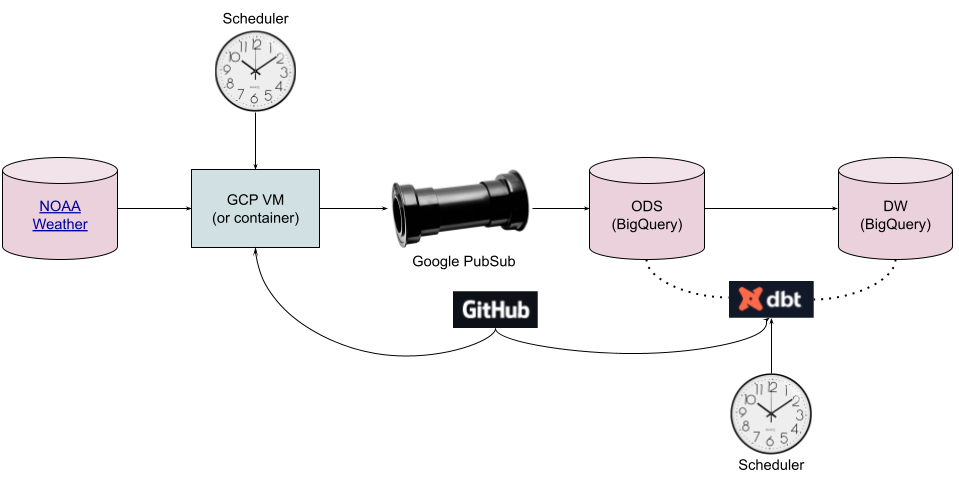
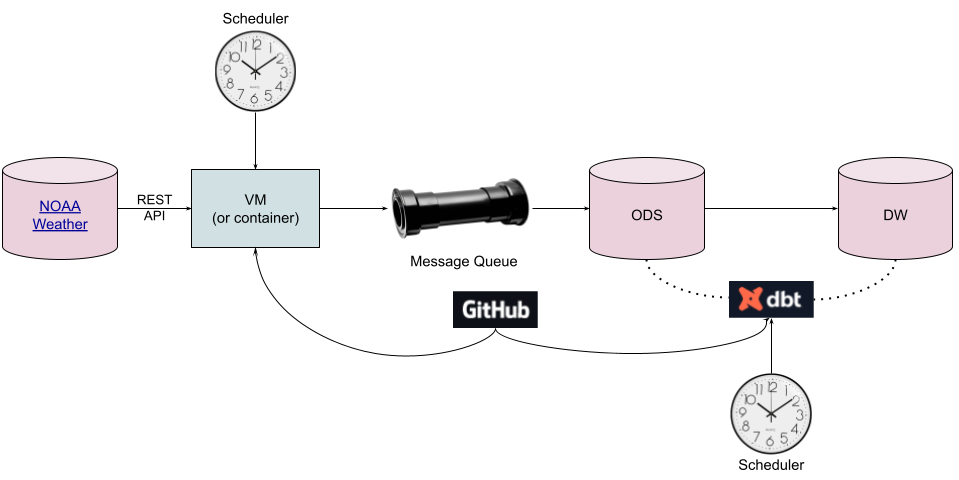
Better documentation.

diff --git a/README.md b/README.md
@@ -8,9 +8,9 @@ This code uses the following technologies:
 # Data Flow
 - I fetch a) weather station, b) weather measurement type (what the NOAA calls the datatype) and c) measurements from the NOAA REST API. I publish this information as messages to a Google PubSub topic.
   - See [fetch.py](fetch.py).
-  - This code can run on a VM, [Google Cloud Run](https://cloud.google.com/run/) instance, or a GKE cluster. I think a GKE cluster is overkill for this workload. A Google Run instance is a nice step up from a VM. It would take it's code directly from GitHub.
-  - With a VM I schedule with crontab. With a Google Cloud Run instance I would schedule with [Google Cloud Scheduler](https://cloud.google.com/scheduler).
-  - All messages are sent to a single PubSub topic, distinguished by the record type.
+  - This code can run on a VM or a container such as [AWS Fargate](https://aws.amazon.com/fargate/) or [Google Cloud Run](https://cloud.google.com/run/).
+  - With a VM I schedule with crontab. With Fargate or Cloud Run I would schedule with [EventBridge](https://docs.aws.amazon.com/AmazonECS/latest/userguide/scheduled_tasks.html) or [Google Cloud Scheduler](https://cloud.google.com/scheduler).
+  - All messages are sent to a single message queue topic (Google PubSub, could also use [AWS SQS](https://aws.amazon.com/sqs/), distinguished by the record type.
 - I configured the Google PubSub topic to write the messages directly to a Google BigQuery table.
   - The 5-column [target table schema](sql/weather_ods.source.sql) is [defined by Google](https://cloud.google.com/pubsub/docs/bigquery#properties_subscription).
   - You can also [manipulate the data with Google DataFlow](https://cloud.google.com/dataflow/docs/tutorials/dataflow-stream-to-bigquery) before it lands in BigQuery. I prefer to go straight to a BigQuery table (or cloud storage) rather than add a step which could cause a failure.
@@ -23,10 +23,13 @@ This code uses the following technologies:
   - [Temperatures](models/weather/temperature.sql)
     - The real magic of DBT happens here: because I have defined temperature data to rely on station, measurement type and measurement, it knows to load that foundational data first, *then* it loads the temperature data.
 
+| Note                                                                                                                                                                                                                                                                                                                                                                                                                                                  |
+|-------------------------------------------------------------------------------------------------------------------------------------------------------------------------------------------------------------------------------------------------------------------------------------------------------------------------------------------------------------------------------------------------------------------------------------------------------|
+| In the diagram below the ODS and DW are shown as different databases, but it is a logical separation only.<br/>In Snowflake and Redshift these would be two databases in the same database cluster or two schemas in the same database.<br/>In BigQuery these would be two datasets in the same project or two schemas in the same dataset.<br/>DBT is generating and executing the SQL which selects from ODS and DW tables and writes to DW tables. |
 ![data flow](images/DBT_and_GCP_Data_Flow.png)
 
 # Potential improvements
-- Run on a schedule via Google Run.
+- Run on a schedule via Fargate or Google Run.
 - Use protobufs (https://protobuf.dev/)
 - ~~The NOAA API limits results to 1000 items; add code to paginate to get all records.~~
 - ~~Log to Google Cloud logging.~~
